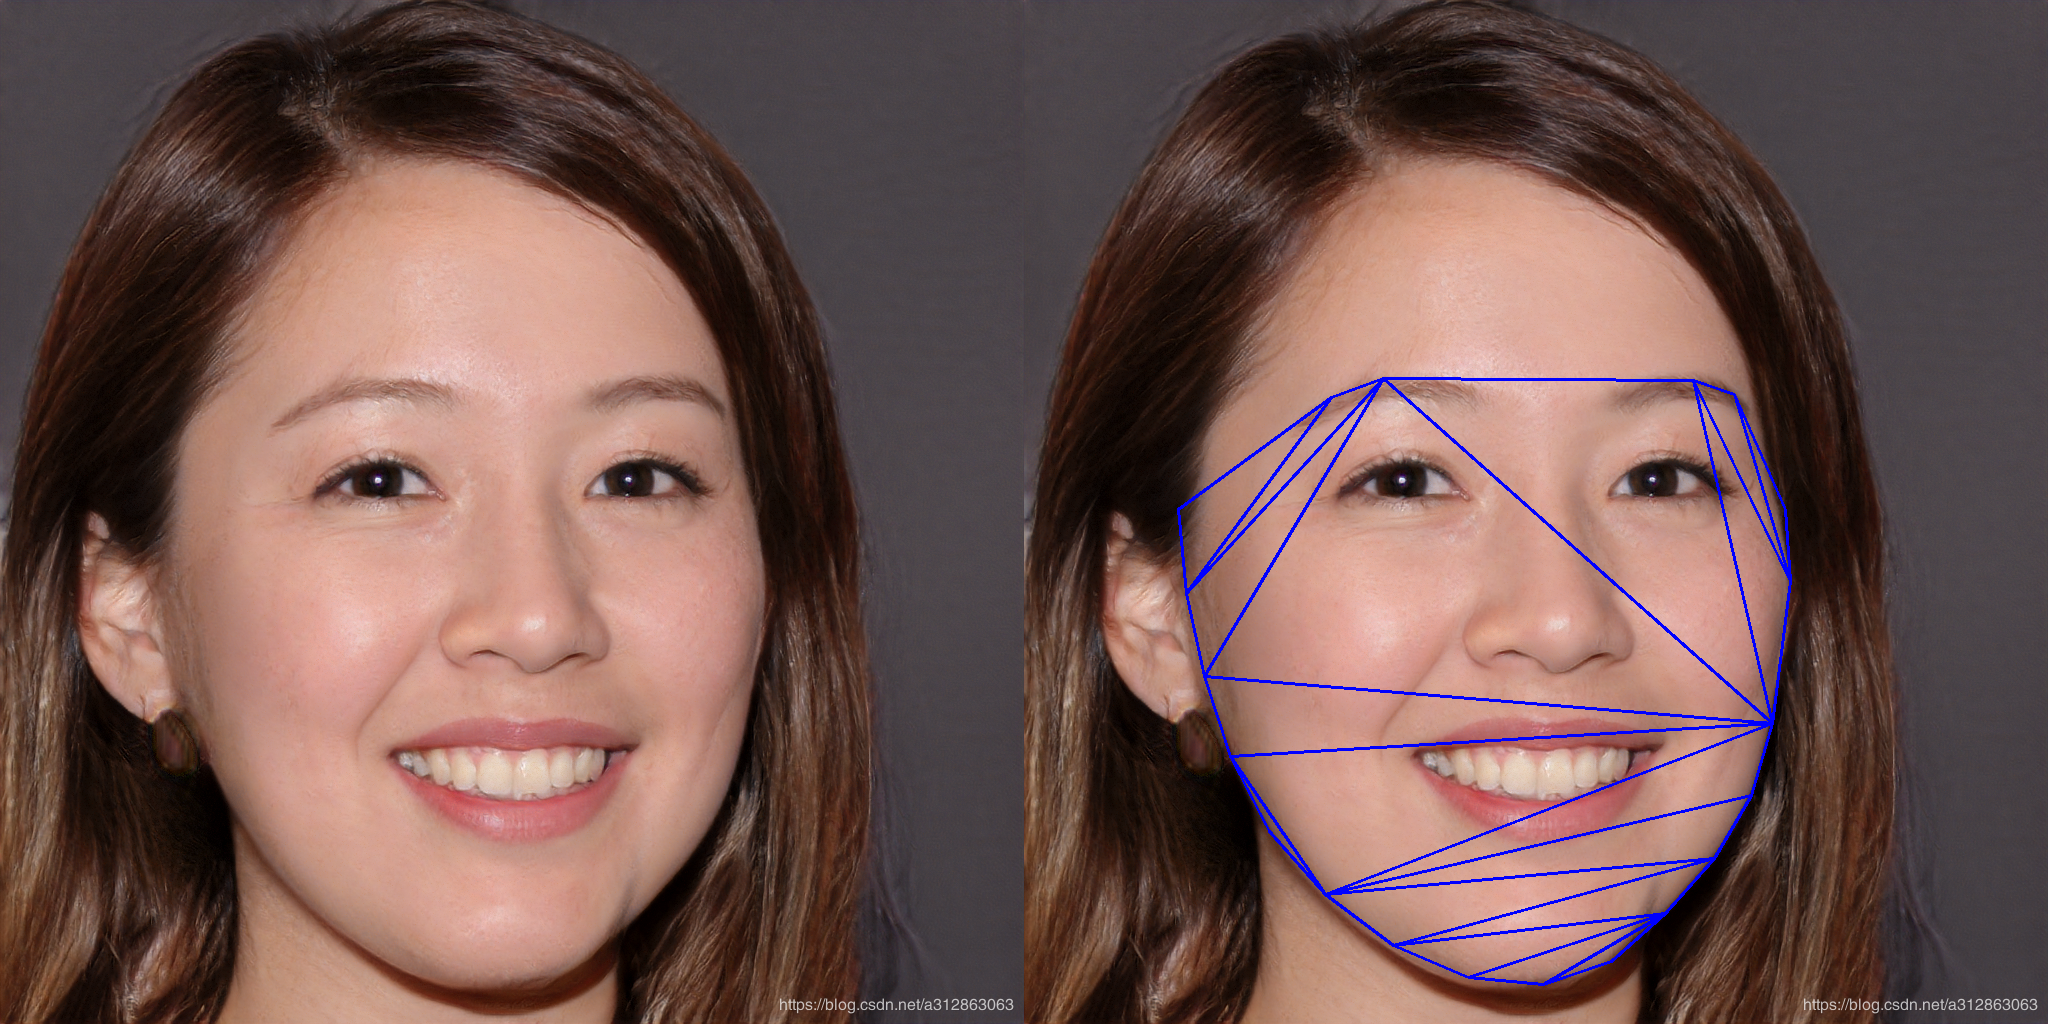
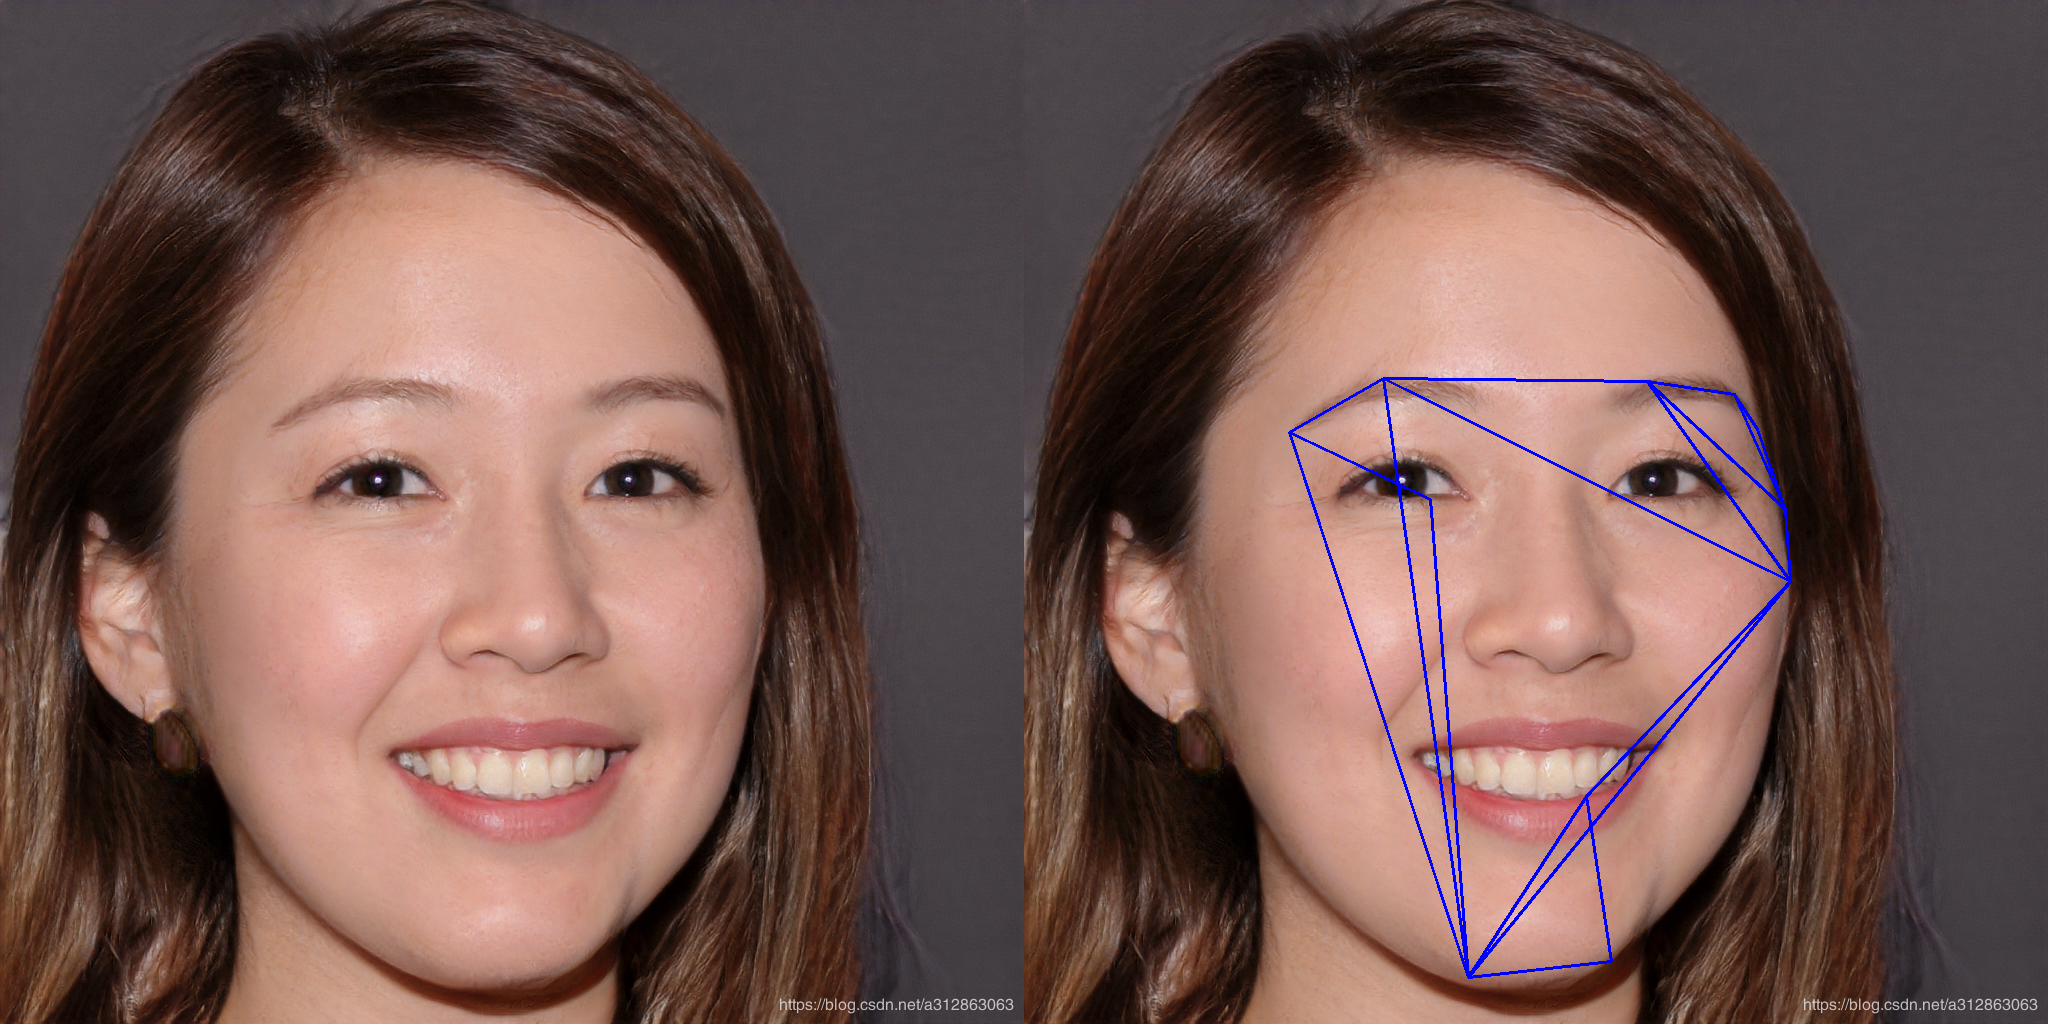
基本能跑，但是有效点好像有bug，结果很奇怪

diff --git a/face_swap.py b/face_swap.py
@@ -46,6 +46,7 @@ def calculateDelaunayTriangles(rect,points):
 
     # Insert points into subdiv
     for p in points:
+        print(p)
         subdiv.insert(p)
     triangleList = subdiv.getTriangleList()
 
@@ -116,10 +117,13 @@ def warpTriangle(img1,img2,t1,t2):
 
 
 if __name__ =='__main__':
-    # Make sure Opencv is version or above
+    # Make sure Opencv is version or above jpg -> png
 
     filename1 = "sswap/1.png"
     filename2 = "sswap/1.jpg"
+
+
+
     filename3 = "sswap/mask.jpg"
     filename4 = "sswap/combina.jpg"
     filename5 = "sswap/swap.jpg"
@@ -160,6 +164,9 @@ if __name__ =='__main__':
     # Finde delanauy triangulation for convex hull points
     sizeImg2 = img1.shape
     rect = (0,0,sizeImg2[1],sizeImg2[0])
+
+    print(rect)
+    print(hull2)
 
     dt = calculateDelaunayTriangles(rect,hull2)
     if(len(dt) == 0):
@@ -204,9 +211,110 @@ if __name__ =='__main__':
 
 
 
+def face_swap_1(filename1, frame, points1, points2, valid_flg):
+    # trump -> jpg
+    '''
+    filename1 -> 1.jpg的脸
+    filename2 -> trump的脸
+    points1 -> 1.jpg的脸的点
+    points2 -> trump脸上光流形成的点
+    valid_flg -> 这些点是否有效 1 - 有效 0 - 无效
+    :return: 合成后的frame
+    '''
 
+    filename3 = "sswap/mask.jpg"
+    filename4 = "sswap/combina.jpg"
+    filename5 = "sswap/swap.jpg"
 
+    # 这是要换的那个男人的点集合
+    txt_path1 = "sswap/pointsjpg.txt"
+    #txt_path2 = "sswap/pointsjpg.txt"
 
+    img1 = cv2.imread(filename1)
+    img2 = frame
+    img1Warped = np.copy(img2)
+
+    # Read array of corresponding points
+    #points1 = readPoints(txt_path1)
+    #print(len(points1))
+    #points2 = readPoints(txt_path2)
+    #print(len(points2))
+
+    # 有效的点集合
+    points1_valid = []
+    points2_valid = []
+    for i in range(len(valid_flg)):
+        if(valid_flg[i] == 1):
+            points1_valid.append(points1[i])
+            points2_valid.append(points2[i])
+
+    # Find convex hull
+    hull1 = []
+    hull2 = []
+    img_corp = img1.copy()
+    hullIndex = cv2.convexHull(np.array(points2_valid), returnPoints=False)
+
+    # find convexHull
+    hullIndex1 = cv2.convexHull(np.array(points1_valid))
+    for i in range(len(hullIndex1)):
+        cv2.line(img_corp, tuple(hullIndex1[i][0]), tuple(hullIndex1[(i + 1) % len(hullIndex1)][0]), (255, 0, 0), 2)
+        # cv2.circle(img_corp,i,2,(205,0,0),2)
+    img_point = img1.copy()
+    for i in points1_valid:
+        cv2.circle(img_point, tuple(i), 2, (0, 255, 0), 5)
+    fillbox = np.hstack((img1, img_point, img_corp))
+    # cv2.imwrite("sswap/fillbox.png", fillbox)
+
+    for i in range(0, len(hullIndex)):
+        hull1.append(points1_valid[int(hullIndex[i])])
+        hull2.append(points2_valid[int(hullIndex[i])])
+
+    # Finde delanauy triangulation for convex hull points
+    sizeImg2 = img1.shape
+    rect = (0, 0, sizeImg2[1], sizeImg2[0])
+    print(rect)
+    print(hull2)
+    dt = calculateDelaunayTriangles(rect, hull2)
+    if (len(dt) == 0):
+        quit()
+
+    img2_con = img1.copy()
+    # Apply affine tranformation to Delaunay triangles
+    for i in range(0, len(dt)):
+        t1 = []
+        t2 = []
+
+        # Get points for img1,img2 corresponding to triangles
+        for j in range(0, 3):
+            t1.append(hull1[dt[i][j]])
+            t2.append(hull2[dt[i][j]])
+
+        for j in range(0, 3):
+            cv2.line(img2_con, t1[j], t1[(j + 1) % 3], (255, 0, 0), 2)
+
+        warpTriangle(img1, img1Warped, t1, t2)
+
+    out_convex = np.hstack((img1, img2_con))
+    # cv2.imwrite("sswap/fillbox_tri.png", out_convex)
+    # Calculate Mask
+    hull8U = []
+    for i in range(0, len(hull2)):
+        hull8U.append((hull2[i][0], hull2[i][1]))
+
+    mask = np.zeros(img2.shape, dtype=img2.dtype)
+    cv2.fillConvexPoly(mask, np.int32(hull8U), (255, 255, 255))
+
+    cv2.imwrite(filename3, mask)
+    cv2.imwrite(filename4, img1Warped)
+
+    r = cv2.boundingRect(np.float32([hull2]))
+    center = ((r[0] + int(r[2] / 2), r[1] + int(r[3] / 2)))
+    output = cv2.seamlessClone(np.uint8(img1Warped), img2, mask, center, cv2.NORMAL_CLONE)
+    output_mask = np.hstack((img1Warped, img2, mask, output))
+    # cv2.imwrite("sswap/out_mask.png", output_mask)
+    #output = np.hstack((cv2.resize(img1, (img2.shape[0], img2.shape[1])), output, img2))
+    cv2.imwrite(filename5, output)
+    return output
 
 
 

diff --git a/optical_flow.py b/optical_flow.py
@@ -3,7 +3,7 @@ from time import sleep
 import numpy as np
 import cv2
 import get_point
-
+import face_swap
 
 # 所有有效的点
 valid = [i for i in range(68)]
@@ -35,14 +35,28 @@ p0 = get_point.getMousePos(old_gray)
 # Create a mask image for drawing purposes
 mask = np.zeros_like(old_frame)
 
+# 要换脸的那个人的脸的关键点集合 这个集合不会发生变化
+txt_path1 = "sswap/pointspng.txt"
+points1 = face_swap.readPoints(txt_path1)
+points2 = [(int(c[0][0]),int(c[0][1])) for c in p0]
+filename1 = "sswap/1.png"
+
 while (1):
+    # 对每一帧进行读取
     ret, frame = cap.read()
+    print(frame.shape)
+
+    # cv2.imshow(out)
     frame_gray = cv2.cvtColor(frame, cv2.COLOR_BGR2GRAY)
 
     # calculate optical flow
     p1, st, err = cv2.calcOpticalFlowPyrLK(old_gray, frame_gray, p0, None,
                                            **lk_params)
 
+
+
+
+    # 得到有效的点的集合
     for i in range(len(st)):
         if st[i] == 1:
             pass
@@ -51,15 +65,21 @@ while (1):
     for i in range(len(flg)):
         if(flg[i] == 0 and i in valid):
             valid.remove(i)
-    print((valid))
-    # Select good points
+    # ((valid))
+
+
+    for i in range(len(valid)):
+        points2[valid[i]] = (p1[i][0][0], p1[i][0][1])
+
+    out = face_swap.face_swap_1(filename1, frame, points1, points2, flg)
+    # Select good points 选择好的点
     try:
         good_new = p1[st == 1]
         good_old = p0[st == 1]
     except:
         pass
 
-    # draw the tracks
+    # draw the tracks 画出轨迹 没啥用
     for i, (new, old) in enumerate(zip(good_new, good_old)):
         a, b = new.ravel()
         c, d = old.ravel()
@@ -71,7 +91,7 @@ while (1):
         frame = cv2.circle(frame, (a, b), 5, color[i].tolist(), -1)
     img = cv2.add(frame, mask)
 
-    cv2.imshow('frame', img)
+    cv2.imshow('frame', out)
     sleep(1/60)
     k = cv2.waitKey(30) & 0xff
     if k == 27:
@@ -79,7 +99,8 @@ while (1):
 
     # Now update the previous frame and previous points
     old_gray = frame_gray.copy()
+    # n * 1 * 2 表示点
     p0 = good_new.reshape(-1, 1, 2)
-
+    print(p0)
 cv2.destroyAllWindows()
 cap.release()
